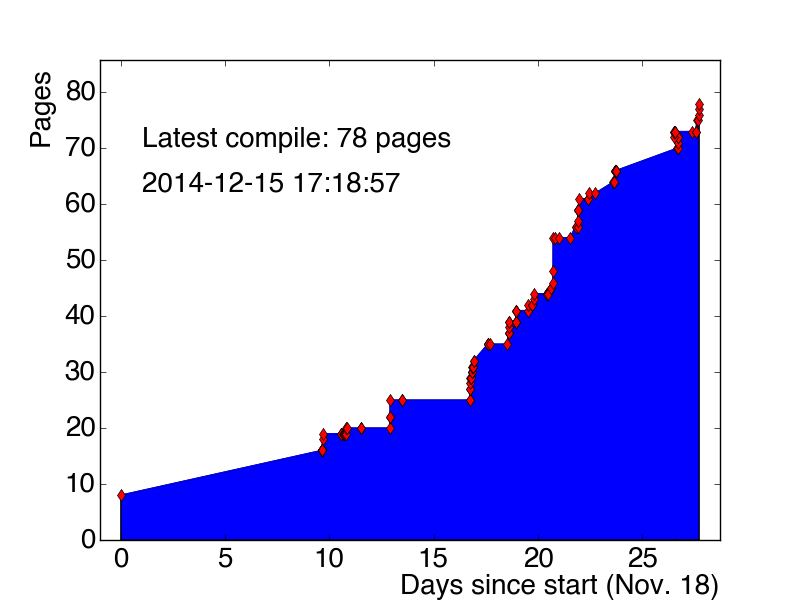
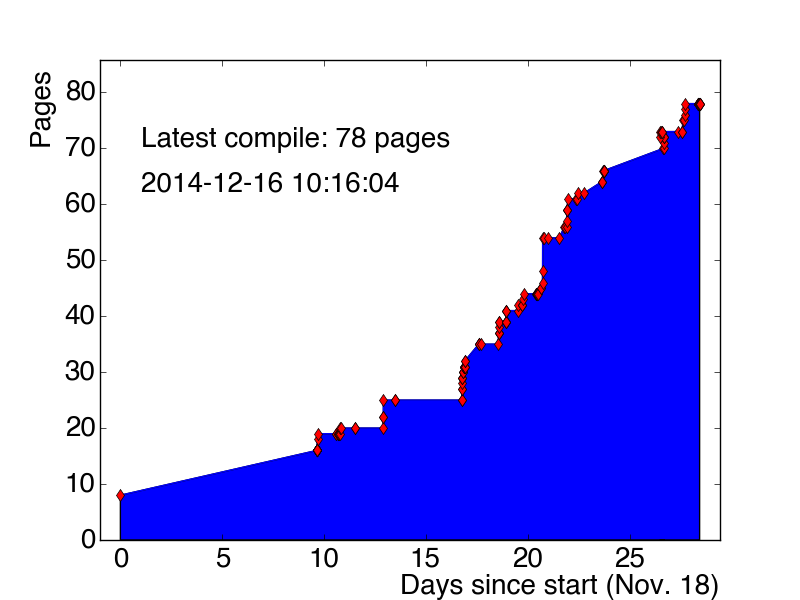
tau trigger predictions

diff --git a/tables/prospects-L1rate-evolution.tex b/tables/prospects-L1rate-evolution.tex
@@ -1,0 +1,14 @@
+\begin{tabular}{lccc}
+  \hline\hline
+  L1 item     & Rate [kHz] & Unique rate [kHz] & Comment \\
+  \hline
+  2TAU11                  & 181   & 147   & Used by $\Htauhtauh$, early 2011 \\
+  2TAU11I                 & 121   &  99   & Used by $\Htauhtauh$, late 2011 \\
+  TAU15I TAU11I           &  96   &  75   & Used by $\Htauhtauh$, 2012 \\
+  TAU20I TAU11I           &  69   &  48   & Raising the lead $\tauh$ threshold \\
+  TAU20I TAU12I           &  61   &  42   & Raising the sub-lead $\tauh$ threshold \\
+  TAU20I TAU12I J25       &  20   &  12   & Requiring an additional jet \\
+  TAU20I TAU12I J25 DR2.8 &   7.8 &   4.3 & Requiring $\dRtauhtauh < 2.8$ \\
+  \hline\hline
+\end{tabular}
+

diff --git a/tex/prospects.tex b/tex/prospects.tex
@@ -8,6 +8,13 @@ Prospects for the $\Htautau$ analysis in Run-II and at the HL-LHC are described.
 \section{Run-II}
 \label{sec:prospects-run2}
 
+\begin{table}[bp] 
+  \centering
+  \caption{L1 trigger items and rate predictions for 2015 data-taking.}
+  \input{tables/prospects-L1rate-evolution}
+  \label{tab:prospects-L1rate-evolution}
+\end{table}
+
 \begin{figure}[tp]
   \centering
   \includegraphics[width=0.80\textwidth]{figures/trigger/cartoonL1}

diff --git a/figures.md b/figures.md
@@ -14,13 +14,13 @@
   0. Lepton d0 (W, Z, tau)              :small_red_triangle:
   0. Tau event display                  :small_red_triangle:
   0. Tau energy calibration             :small_red_triangle:
-  0. Tau ID input variables             :small_red_triangle:
-  0. Tau ID ROC                         :small_red_triangle:
-  0. Electron veto input variables      :small_red_triangle:
-  0. Electron veto ROC                  :small_red_triangle:
+  0. Tau ID input variables             :small_orange_diamond:
+  0. Tau ID ROC                         :small_orange_diamond:
+  0. Electron veto input variables      :small_orange_diamond:
+  0. Electron veto ROC                  :small_orange_diamond:
   0. Muon rejection efficiency          :small_red_triangle:
-  0. Zmumu (brem) fakes                 :small_red_triangle:
-  0. Zmumu (FSR) fakes                  :small_red_triangle:
+  0. Zmumu (brem) fakes                 :small_blue_diamond:
+  0. Zmumu (FSR) fakes                  :small_blue_diamond:
 0. [Htautau strategy](tex/)             :small_red_triangle:
   0. Muon reconstruction/ID             :small_blue_diamond:
   0. Electron reconstruction/ID         :small_blue_diamond:

diff --git a/library.md b/library.md
@@ -12,6 +12,10 @@
 
 #### Htautau projection 2014: [ATL-PHYS-PUB-2014-018](https://atlas.web.cern.ch/Atlas/GROUPS/PHYSICS/PUBNOTES/ATL-PHYS-PUB-2014-018/)
 
+#### Tau trigger 2011: [ATLAS-CONF-2013-006](https://atlas.web.cern.ch/Atlas/GROUPS/PHYSICS/CONFNOTES/ATLAS-CONF-2013-006/)
+
+#### Tau trigger 2010: [ATLAS-CONF-2010-090](https://atlas.web.cern.ch/Atlas/GROUPS/PHYSICS/CONFNOTES/ATLAS-CONF-2010-090/)
+
 #### CERN FAQ: [CERN-Brochure-2009-003-Eng](https://cds.cern.ch/record/1165534/files/CERN-Brochure-2009-003-Eng.pdf)
 
 #### ATLAS SM: [CombinedSummaryPlots-SM](https://atlas.web.cern.ch/Atlas/GROUPS/PHYSICS/CombinedSummaryPlots/SM/)

diff --git a/pages.md b/pages.md
@@ -138,3 +138,17 @@
 + [2014-12-15-17h14m14s] 76
 + [2014-12-15-17h17m09s] 77
 + [2014-12-15-17h18m57s] 78
++ [2014-12-16-08h24m03s] 78
++ [2014-12-16-08h25m25s] 78
++ [2014-12-16-08h45m56s] 78
++ [2014-12-16-08h52m35s] 78
++ [2014-12-16-08h53m18s] 78
++ [2014-12-16-08h55m01s] 78
++ [2014-12-16-09h57m12s] 78
++ [2014-12-16-09h58m19s] 78
++ [2014-12-16-09h59m57s] 78
++ [2014-12-16-10h04m34s] 78
++ [2014-12-16-10h10m12s] 78
++ [2014-12-16-10h14m40s] 78
++ [2014-12-16-10h15m09s] 78
++ [2014-12-16-10h16m04s] 78
